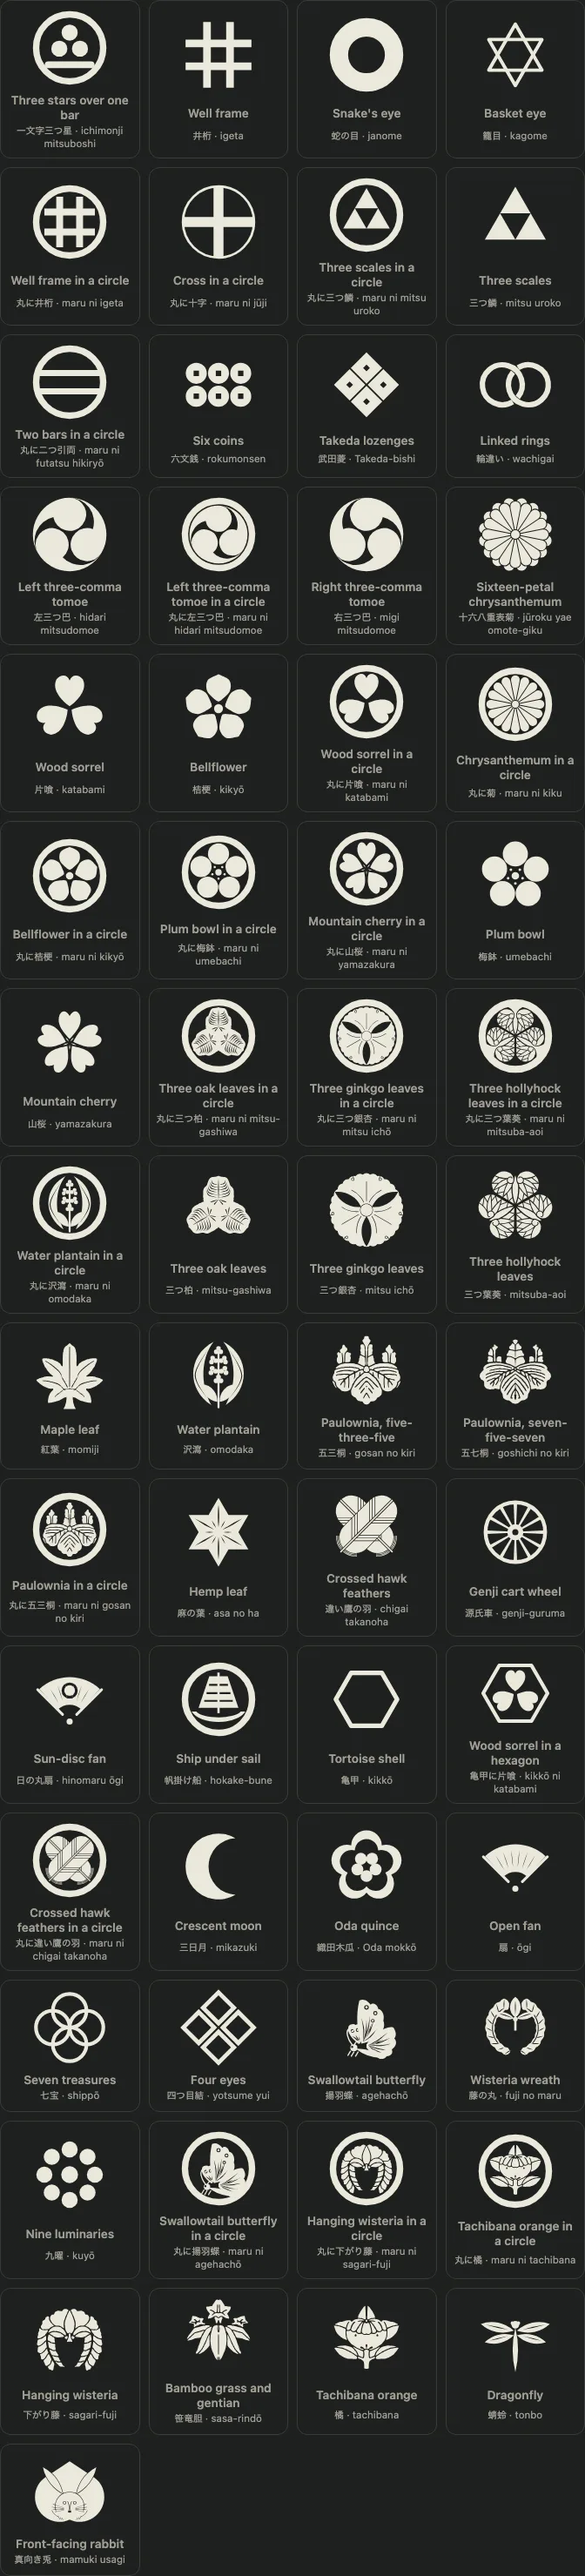
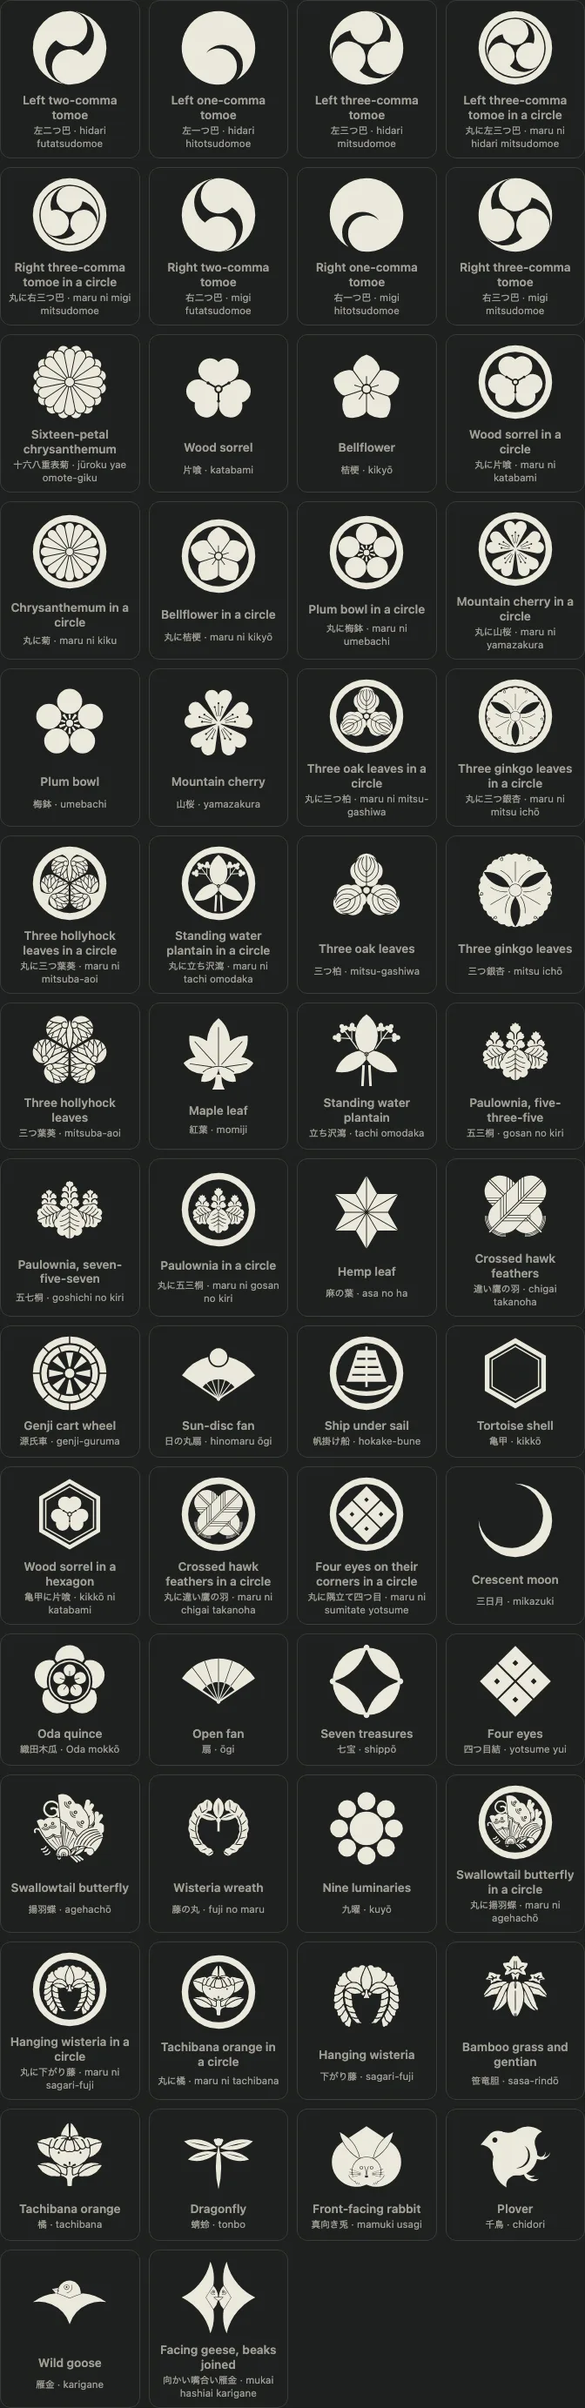
docs: the catalogue picture shows the new paulownia, within its budget

diff --git a/README.md b/README.md
@@ -151,9 +151,9 @@ Install the scoped name: an unscoped `kamon-crests` on npm, if there is one, is 
 <p align="center">
 <picture>
 <source media="(prefers-color-scheme: dark)" srcset="https://raw.githubusercontent.com/johnmorrisdotca/kamon-crests/main/docs/images/catalogue-desk-dark.webp">
-<img src="https://raw.githubusercontent.com/johnmorrisdotca/kamon-crests/main/docs/images/catalogue-desk-light.webp" alt="The whole catalogue on one sheet: every crest of the package as a tile with its name and its Japanese reading, from the snake's eye and the cross in a circle to the three hollyhock leaves, the paulownia, the tomoe, the butterfly and the dragonfly." width="760">
+<img src="https://raw.githubusercontent.com/johnmorrisdotca/kamon-crests/main/docs/images/catalogue-desk-light.webp" alt="The catalogue on one sheet, from the tomoe on: each crest as a tile with its name and its Japanese reading, from the commas and the chrysanthemum to the three hollyhock leaves, the paulownia, the butterfly, the dragonfly and the wild geese." width="760">
 </picture>
-<br><em>Every crest of the catalogue, as the demo shows it.</em>
+<br><em>The catalogue from the tomoe on, as the demo shows it; the plain shapes before them are left off to keep the picture small.</em>
 </p>
 
 ## Use it in your project
